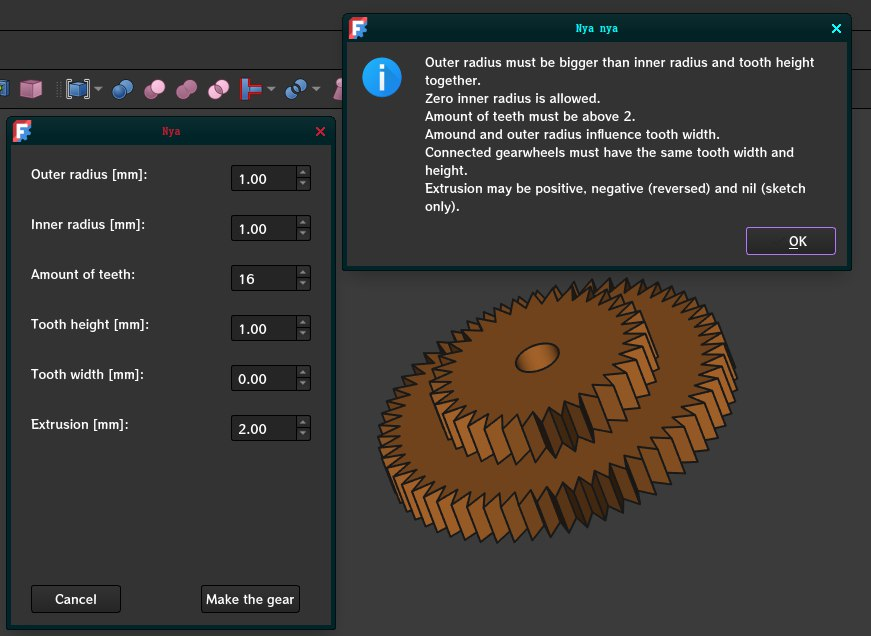
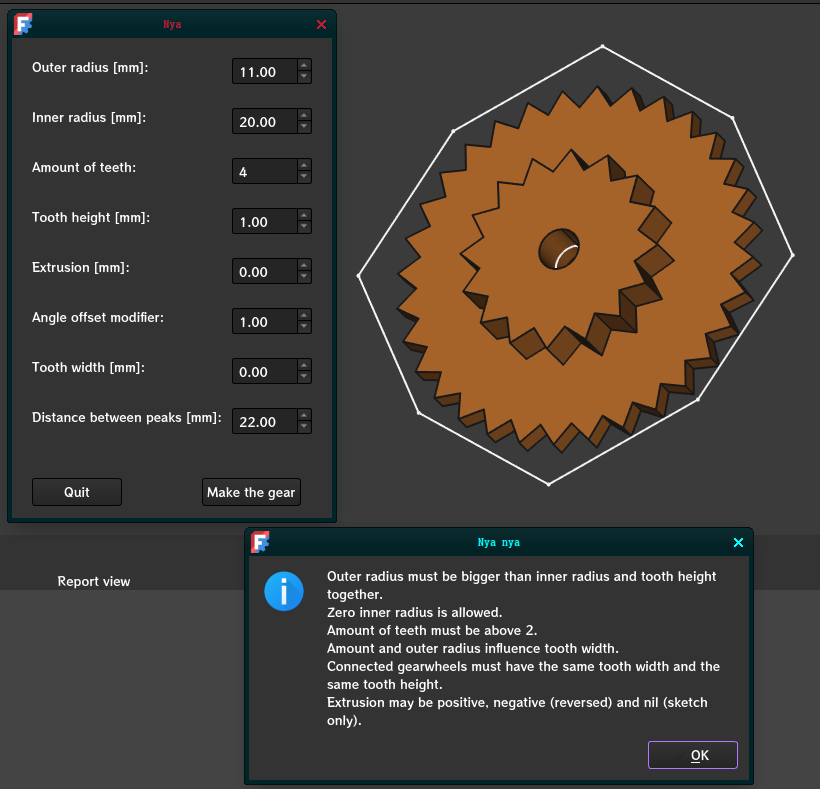
0E: Added tooth angle modifier and gear editing functionality.

diff --git a/scripts/gearmaker.py b/scripts/gearmaker.py
@@ -2,142 +2,38 @@ from PySide import QtCore, QtGui
 import FreeCAD as App
 import math
 
-'''============================================================='''
-'''                Graphical user interface code                '''
-class GuiClass(QtGui.QDialog):
-    def __init__(self):
-        super(GuiClass, self).__init__()
-        self.initUI()
-
-    ##  "Error handling"
-    def callInformation(self):
-        QtGui.QMessageBox.information(None, "Nya nya",
-                                      "Outer radius must be bigger than inner radius and tooth height together."+
-                                      "\nZero inner radius is allowed."+
-                                      "\nAmount of teeth must be above 2."+
-                                      "\nAmount and outer radius influence tooth width."+
-                                      "\nConnected gearwheels must have the same tooth width and the same tooth height."+
-                                      "\nExtrusion may be positive, negative (reversed) and nil (sketch only)."
-                                      )
-
-    ##  "Error handling" end
-
-    ## Utility functions
-    def setupSpinBox(self, box, max, min = 0, step = 1, default = 0):
-        box.setRange(min, max)
-        box.setSingleStep(step)
-        box.setValue(default)
-
-    def tryQuit(self, success):
-        if(success):
-            if(self.ds_or.value() <= (self.ds_th.value()+self.ds_ir.value())):
-                self.callInformation()
-                return
-        self.success = success
-        self.close()
-    ## Utility functions end
-    
-    ##  Event handling
-    def onValueChanged(self):
-        #   outer radius <= tooth height + inner radius
-        if(self.ds_or.value() <= (self.ds_th.value()+self.ds_ir.value())):
-            self.is_tw.setValue(0)
-        else:
-            self.is_tw.setValue(math.tan(math.pi*2/self.is_at.value()/2)*(self.ds_or.value()-self.ds_th.value())*2)
-            self.is_td.setValue(math.tan(math.pi*2/self.is_at.value()/2)*(self.ds_or.value())*2)
-
-    def onOk(self):
-        self.tryQuit(True)
-
-    def onCancel(self):
-        self.tryQuit(False)
-   ##  Event handling end
-    
-
-    def initUI(self):
-        self.success = False
-        self.setGeometry(250, 250, 320, 400)
-        self.setFixedSize(320, 480)
-        self.setWindowTitle("Nya")
-
-        ##  Labels and inputs
-        self.l_or = QtGui.QLabel("Outer radius [mm]:", self)
-        self.l_or.move(20, 20)
-        self.ds_or = QtGui.QDoubleSpinBox(self)
-        self.setupSpinBox(box=self.ds_or, max=1000000, min=1, step = 1, default=5)
-        self.ds_or.valueChanged[float].connect(self.onValueChanged)
-        self.ds_or.setFixedWidth(80)
-        self.ds_or.move(220, 20)
-
-        self.l_ir = QtGui.QLabel("Inner radius [mm]:", self)
-        self.l_ir.move(20, 70)
-        self.ds_ir = QtGui.QDoubleSpinBox(self)
-        self.setupSpinBox(box=self.ds_ir, max=1000000, min=0, step=1, default=1) 
-        self.ds_ir.valueChanged[float].connect(self.onValueChanged)
-        self.ds_ir.setFixedWidth(80)
-        self.ds_ir.move(220, 70)
-
-        self.l_at = QtGui.QLabel("Amount of teeth:", self)
-        self.l_at.move(20, 120)
-        self.is_at = QtGui.QSpinBox(self)
-        self.setupSpinBox(box=self.is_at, max = 1000, min = 2, step = 1, default = 16) 
-        self.is_at.valueChanged[int].connect(self.onValueChanged)
-        self.is_at.setFixedWidth(80)
-        self.is_at.move(220, 120)
-
-        self.l_th = QtGui.QLabel("Tooth height [mm]:", self)
-        self.l_th.move(20, 170)
-        self.ds_th = QtGui.QDoubleSpinBox(self)
-        self.setupSpinBox(box=self.ds_th, max=1000, min=0, step=0.1, default=1)
-        self.ds_th.valueChanged[float].connect(self.onValueChanged)
-        self.ds_th.setFixedWidth(80)
-        self.ds_th.move(220, 170)
-
-        self.l_e = QtGui.QLabel("Extrusion [mm]:", self)
-        self.l_e.move(20, 220)
-        self.ds_e = QtGui.QDoubleSpinBox(self)
-        self.setupSpinBox(self.ds_e, 1000000, min=-1000000, step=1, default=2) 
-        self.ds_e.valueChanged[float].connect(self.onValueChanged)
-        self.ds_e.setFixedWidth(80)
-        self.ds_e.move(220, 220)
-
-        self.l_tw = QtGui.QLabel("Tooth width [mm]:", self)
-        self.l_tw.move(20, 270)
-        self.is_tw = QtGui.QDoubleSpinBox(self)
-        self.is_tw.setFixedWidth(80)
-        self.is_tw.move(220, 270)
-        self.is_tw.setEnabled(False)
-
-        self.l_td = QtGui.QLabel("Distance between peaks [mm]:", self)
-        self.l_td.move(20, 320)
-        self.is_td = QtGui.QDoubleSpinBox(self)
-        self.is_td.setFixedWidth(80)
-        self.is_td.move(220, 320)
-        self.is_td.setEnabled(False)
-        ##  Inputs and labels end
-
-        ##  Confirm/Cancel buttons
-        self.bt_cancel = QtGui.QPushButton("Cancel", self)
-        self.bt_cancel.clicked.connect(self.onCancel)
-        self.bt_cancel.move(20, 440)
-        
-        self.bt_ok = QtGui.QPushButton("Make the gear", self)
-        self.bt_ok.clicked.connect(self.onOk)
-        self.bt_ok.move(190, 440)
-        ##  Confirm/Cancel buttons end
-        
-        self.show()
-
-form = GuiClass()
-form.exec()
-
-'''               Graphical user interface end                '''
-'''==========================================================='''
-
 '''==========================================================='''
 '''                     Modelling code                        '''
+sketch = None
+body = None
+pad = None
+doc = App.activeDocument()
+if(doc is None):
+    QtGui.QMessageBox.information(None, "No nya", "Select a document first.")
+
+
 ##  FreeCAD object functions
-def makeGearWheel(doc, o_radius, i_radius, tooth_amount, tooth_h, extrusion, angle_divider = 2):
+def removePrev():
+    global body 
+    global sketch 
+    global pad 
+
+    if(pad is not None):
+        doc.removeObject(pad.Name)
+        pad = None
+    if(sketch is not None):
+        doc.removeObject(sketch.Name)
+        sketch = None
+    if(body is not None):
+        doc.removeObject(body.Name)
+        body = None
+
+def makeSketch(o_radius, i_radius, tooth_amount, tooth_h, angle_divider):
+    removePrev()
+
+    global body 
+    global sketch 
+   
     body = doc.addObject('PartDesign::Body', 'gearBody')
 
     sketch = body.newObject('Sketcher::SketchObject', 'gearSketch')
@@ -183,9 +79,17 @@ def makeGearWheel(doc, o_radius, i_radius, tooth_amount, tooth_h, extrusion, ang
     geoList.append(Part.LineSegment(points[0], points[len(points)-1]))
     sketch.addGeometry(geoList, False)
     del geoList
+    
+    doc.recompute()
 
+    return sketch
+
+def makeGearWheel(extrusion):
     if(extrusion == 0):
         return
+
+    global pad
+    
 
     pad = body.newObject('PartDesign::Pad', 'gearPad')
     pad.Profile = (sketch, [''])
@@ -194,21 +98,154 @@ def makeGearWheel(doc, o_radius, i_radius, tooth_amount, tooth_h, extrusion, ang
     pad.Reversed = (extrusion < 0)
 
     sketch.Visibility = False
+    doc.recompute()
 ##  FreeCAD object functions end
 
-if(form.success):
-    doc = App.activeDocument()
-    if(doc is None):
-        QtGui.QMessageBox.information(None, "No nya", "Select a document first.")
-    else:
-        ##  Processing
-        o_radius = form.ds_or.value()
-        i_radius = form.ds_ir.value()
-        tooth_amount = form.is_at.value()
-        tooth_h = form.ds_th.value()
-        extrusion = form.ds_e.value()
-        
-        makeGearWheel(doc, o_radius, i_radius, tooth_amount, tooth_h, extrusion)
+'''                     Modelling code end                      '''
+'''============================================================='''
 
-        ##  Processing end
-        doc.recompute()
+'''============================================================='''
+'''                Graphical user interface code                '''
+class GuiClass(QtGui.QDialog):
+    def __init__(self):
+        super(GuiClass, self).__init__()
+        self.initUI()
+
+    ##  "Error handling"
+    def callInformation(self):
+        QtGui.QMessageBox.information(None, "Nya nya",
+                                      "Outer radius must be bigger than inner radius and tooth height together."+
+                                      "\nZero inner radius is allowed."+
+                                      "\nAmount of teeth must be above 2."+
+                                      "\nAmount and outer radius influence tooth width."+
+                                      "\nConnected gearwheels must have the same tooth width and the same tooth height."+
+                                      "\nExtrusion may be positive, negative (reversed) and nil (sketch only)."
+                                      )
+
+    ##  "Error handling" end
+
+    ## Utility functions
+    def setupSpinBox(self, box, max, min = 0, step = 1, default = 0):
+        box.setRange(min, max)
+        box.setSingleStep(step)
+        box.setValue(default)
+
+    def areValuesBad(self):
+        return self.ds_or.value() <= (self.ds_th.value()+self.ds_ir.value())
+
+   
+    ## Utility functions end
+    
+    ##  Event handling
+    def onValueChanged(self):
+        #   outer radius <= tooth height + inner radius
+        if(self.ds_or.value() <= (self.ds_th.value()+self.ds_ir.value())):
+            self.is_tw.setValue(0)
+        else:
+            self.is_tw.setValue(math.tan(math.pi*2/self.is_at.value()/2)*(self.ds_or.value()-self.ds_th.value())*2)
+            self.is_td.setValue(math.tan(math.pi*2/self.is_at.value()/2)*(self.ds_or.value())*2)
+
+    def onOk(self):
+        if(self.areValuesBad()):
+            self.callInformation()
+            return
+
+        makeSketch(self.ds_or.value(), 
+                       self.ds_ir.value(), 
+                       self.is_at.value(), 
+                       self.ds_th.value(), 
+                       self.ds_ao.value())
+        makeGearWheel(self.ds_e.value())
+
+    def onCancel(self):
+        self.close()
+   ##  Event handling end
+    
+
+    def initUI(self):
+        self.setGeometry(250, 250, 320, 400)
+        self.setFixedSize(320, 480)
+        self.setWindowTitle("Nya")
+
+        ##  Labels and inputs
+        self.l_or = QtGui.QLabel("Outer radius [mm]:", self)
+        self.l_or.move(20, 20)
+        self.ds_or = QtGui.QDoubleSpinBox(self)
+        self.setupSpinBox(box=self.ds_or, max=1000000, min=1, step = 1, default=5)
+        self.ds_or.valueChanged[float].connect(self.onValueChanged)
+        self.ds_or.setFixedWidth(80)
+        self.ds_or.move(220, 20)
+
+        self.l_ir = QtGui.QLabel("Inner radius [mm]:", self)
+        self.l_ir.move(20, 70)
+        self.ds_ir = QtGui.QDoubleSpinBox(self)
+        self.setupSpinBox(box=self.ds_ir, max=1000000, min=0, step=1, default=1) 
+        self.ds_ir.valueChanged[float].connect(self.onValueChanged)
+        self.ds_ir.setFixedWidth(80)
+        self.ds_ir.move(220, 70)
+
+        self.l_at = QtGui.QLabel("Amount of teeth:", self)
+        self.l_at.move(20, 120)
+        self.is_at = QtGui.QSpinBox(self)
+        self.setupSpinBox(box=self.is_at, max = 1000, min = 2, step = 1, default = 16) 
+        self.is_at.valueChanged[int].connect(self.onValueChanged)
+        self.is_at.setFixedWidth(80)
+        self.is_at.move(220, 120)
+
+        self.l_th = QtGui.QLabel("Tooth height [mm]:", self)
+        self.l_th.move(20, 170)
+        self.ds_th = QtGui.QDoubleSpinBox(self)
+        self.setupSpinBox(box=self.ds_th, max=1000, min=0, step=0.1, default=1)
+        self.ds_th.valueChanged[float].connect(self.onValueChanged)
+        self.ds_th.setFixedWidth(80)
+        self.ds_th.move(220, 170)
+
+        self.l_e = QtGui.QLabel("Extrusion [mm]:", self)
+        self.l_e.move(20, 220)
+        self.ds_e = QtGui.QDoubleSpinBox(self)
+        self.setupSpinBox(self.ds_e, 1000000, min=-1000000, step=1, default=2) 
+        self.ds_e.valueChanged[float].connect(self.onValueChanged)
+        self.ds_e.setFixedWidth(80)
+        self.ds_e.move(220, 220)
+
+        self.l_ao = QtGui.QLabel("Angle offset modifier:", self)
+        self.l_ao.move(20, 270)
+        self.ds_ao = QtGui.QDoubleSpinBox(self)
+        self.setupSpinBox(self.ds_ao, 1000000, min=1, step=1, default=1) 
+        self.ds_ao.valueChanged[float].connect(self.onValueChanged)
+        self.ds_ao.setFixedWidth(80)
+        self.ds_ao.move(220, 270)
+        
+        self.l_tw = QtGui.QLabel("Tooth width [mm]:", self)
+        self.l_tw.move(20, 320)
+        self.is_tw = QtGui.QDoubleSpinBox(self)
+        self.is_tw.setFixedWidth(80)
+        self.is_tw.move(220, 320)
+        self.is_tw.setEnabled(False)
+
+        self.l_td = QtGui.QLabel("Distance between peaks [mm]:", self)
+        self.l_td.move(20, 370)
+        self.is_td = QtGui.QDoubleSpinBox(self)
+        self.is_td.setFixedWidth(80)
+        self.is_td.move(220, 370)
+        self.is_td.setEnabled(False)
+        ##  Inputs and labels end
+        ##  Confirm/Cancel buttons
+        self.bt_ok = QtGui.QPushButton("Make the gear", self)
+        self.bt_ok.clicked.connect(self.onOk)
+        self.bt_ok.move(190, 440)
+
+        self.bt_cancel = QtGui.QPushButton("Quit", self)
+        self.bt_cancel.clicked.connect(self.onCancel)
+        self.bt_cancel.move(20, 440)
+        ##  Confirm/Cancel buttons end
+        
+        self.show()
+
+form = GuiClass()
+form.exec()
+
+'''               Graphical user interface end                '''
+'''==========================================================='''
+
+
